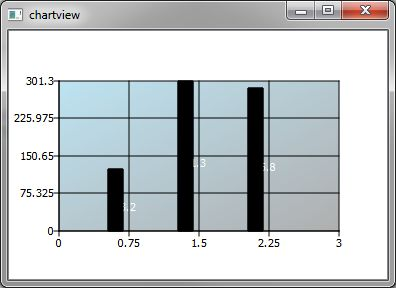
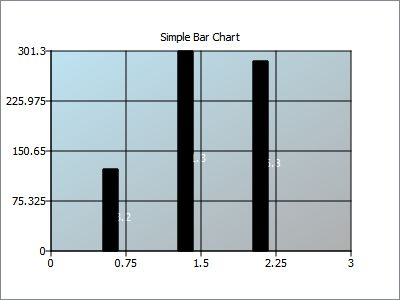
Tuning example code for better screen shots

diff --git a/example/chartview/main.cpp b/example/chartview/main.cpp
@@ -19,6 +19,7 @@ int main(int argc, char *argv[])
     // Create chart view
     QChartView *chartView = new QChartView();
     chartView->setRenderHint(QPainter::Antialiasing);
+    chartView->setChartTitle("Simple Line Chart");
     // Add series to the chart
     QLineChartSeries *line = new QLineChartSeries();
     line->add(0.0, 0.8);
@@ -27,11 +28,13 @@ int main(int argc, char *argv[])
     chartView->addSeries(line);
     //! [1]
 
+    chartView->setChartTitle("\'Scietific\' theme");
     //! [2]
     // Change theme
     chartView->setChartTheme(QChart::ChartThemeScientific);
     //! [2]
 
+    chartView->setChartTitle("Simple Pie Chart");
     //! [3]
     // Add pie series
     // ...
@@ -41,6 +44,7 @@ int main(int argc, char *argv[])
     chartView->addSeries(pie);
     //! [3]
 
+    chartView->setChartTitle("Simple Scatter Chart");
     //! [4]
     // Add scatter series
     // ...
@@ -52,6 +56,7 @@ int main(int argc, char *argv[])
     chartView->addSeries(scatter);
     //! [4]
 
+    chartView->setChartTitle("Simple Bar Chart");
     //! [5]
     // ...
     // Add bar series
@@ -69,8 +74,9 @@ int main(int argc, char *argv[])
     //! [5]
 
     QMainWindow w;
-    w.resize(380, 250);
+    w.resize(400, 300);
     w.setCentralWidget(chartView);
+    w.setWindowFlags(Qt::FramelessWindowHint);
     w.show();
 
     return a.exec();
